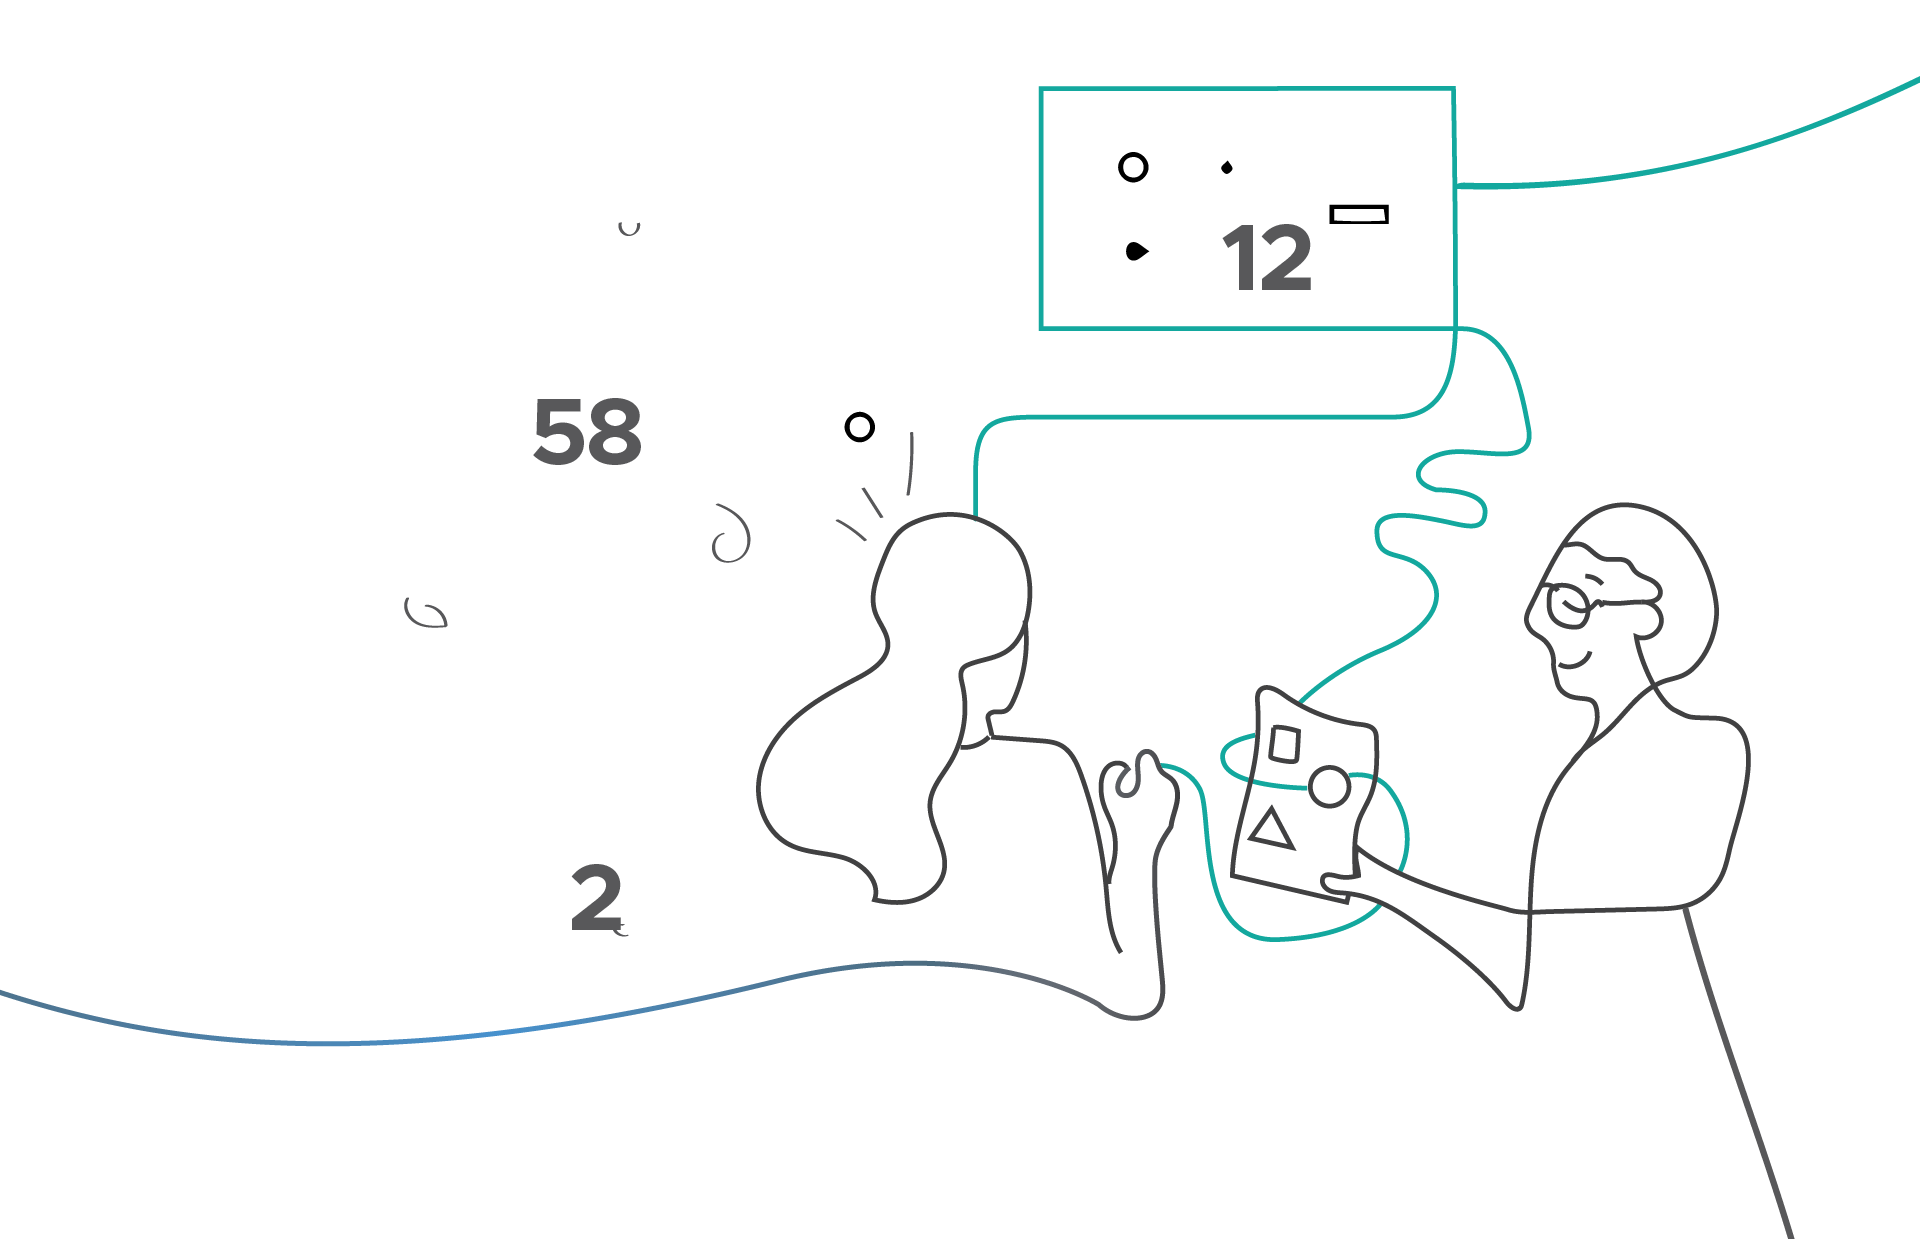
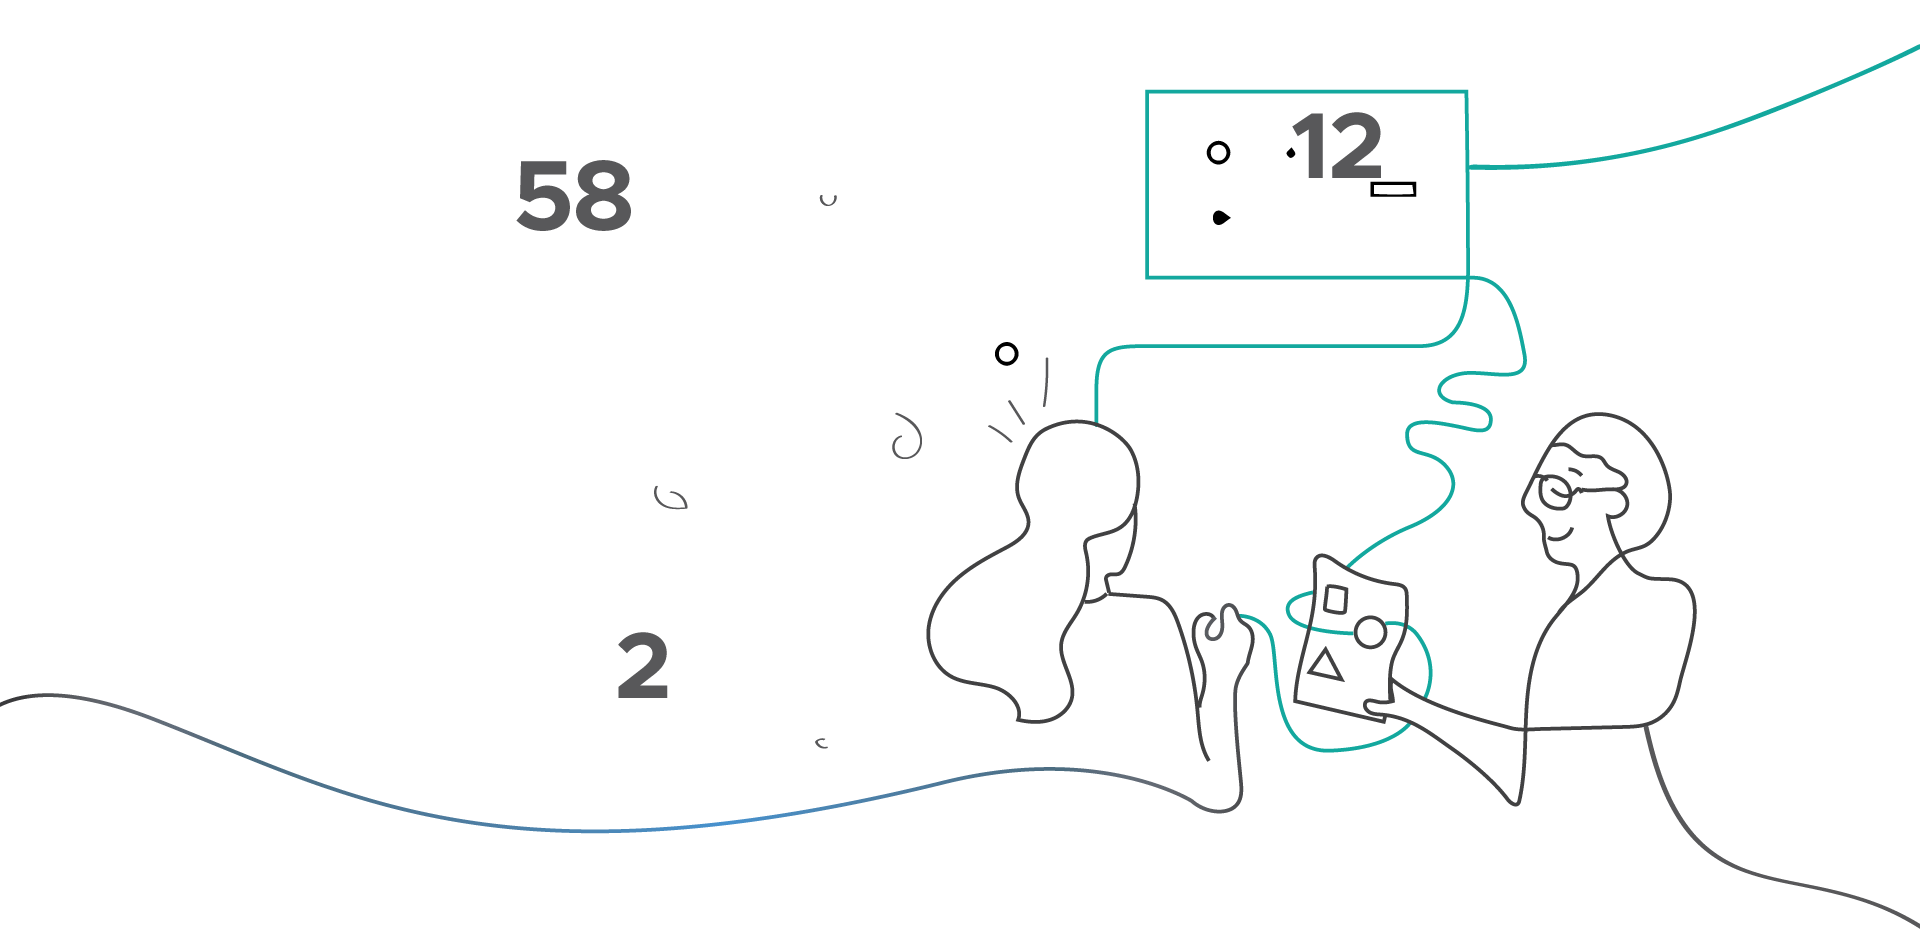
added new animation for segment 2, 3 and 4

diff --git a/js/images.js b/js/images.js
@@ -13,49 +13,97 @@ function showHide(div_section) {
     }
 }
 
+var anime2 = document.getElementById('anime2');
 var anime3 = document.getElementById('anime3');
 var anime4 = document.getElementById('anime4');
 var anime5 = document.getElementById('anime5');
 var anime6 = document.getElementById('anime6');
 var anime7 = document.getElementById('anime7');
 
+function getSrc2o(scrollPos, elem) {
+    if (scrollPos < 1500) return generatePictureCode(1, elem);
+    if (scrollPos < 1525) return generatePictureCode(2, elem);
+    if (scrollPos < 1550) return generatePictureCode(3, elem);
+    if (scrollPos < 1575) return generatePictureCode(4, elem);
+    if (scrollPos < 1600) return generatePictureCode(5, elem);
+    if (scrollPos < 1625) return generatePictureCode(6, elem);
+    if (scrollPos < 1650) return generatePictureCode(7, elem);
+    if (scrollPos < 1675) return generatePictureCode(8, elem);
+    if (scrollPos < 1700) return generatePictureCode(9, elem);
+    if (scrollPos < 1725) return generatePictureCode(10, elem);
+    if (scrollPos < 1750) return generatePictureCode(9, elem);
+    if (scrollPos < 1775) return generatePictureCode(8, elem);
+    if (scrollPos < 1800) return generatePictureCode(7, elem);
+    if (scrollPos < 1825) return generatePictureCode(6, elem);
+    if (scrollPos < 1850) return generatePictureCode(5, elem);
+    if (scrollPos < 1875) return generatePictureCode(4, elem);
+    if (scrollPos < 1900) return generatePictureCode(3, elem);
+    if (scrollPos < 1925) return generatePictureCode(2, elem);
+    if (scrollPos < 1950) return generatePictureCode(1, elem);
+    if (scrollPos > 1950) return generatePictureCode(1, elem);
+}
+
+function getSrc2(scrollPos, elem) {
+    if (scrollPos < 1450) return generatePictureCode(1, elem);
+    if (scrollPos < 1510) return generatePictureCode(2, elem);
+    if (scrollPos < 1570) return generatePictureCode(3, elem);
+    if (scrollPos < 1630) return generatePictureCode(4, elem);
+    if (scrollPos < 1700) return generatePictureCode(5, elem);
+    if (scrollPos < 1760) return generatePictureCode(6, elem);
+    if (scrollPos < 1820) return generatePictureCode(7, elem);
+    if (scrollPos < 1880) return generatePictureCode(8, elem);
+    if (scrollPos < 1940) return generatePictureCode(9, elem);
+    if (scrollPos < 2000) return generatePictureCode(10, elem);
+    if (scrollPos > 2000) return generatePictureCode(10, elem);
+}
+
 function getSrc3(scrollPos, elem) {
-    if (scrollPos < 3500) return generatePictureCode(1, elem);
-    if (scrollPos < 3600) return generatePictureCode(2, elem);
-    if (scrollPos < 3700) return generatePictureCode(3, elem);
-    if (scrollPos < 3800) return generatePictureCode(4, elem);
-    if (scrollPos > 3800) return generatePictureCode(5, elem);
+    if (scrollPos < 2500) return generatePictureCode(1, elem);
+    if (scrollPos < 2600) return generatePictureCode(2, elem);
+    if (scrollPos < 2700) return generatePictureCode(3, elem);
+    if (scrollPos < 2800) return generatePictureCode(4, elem);
+    if (scrollPos < 2900) return generatePictureCode(5, elem);
+    if (scrollPos < 3000) return generatePictureCode(6, elem);
+    if (scrollPos < 3100) return generatePictureCode(7, elem);
+    if (scrollPos > 3100) return generatePictureCode(7, elem);
 }
 
 function getSrc4(scrollPos, elem) {
-    if (scrollPos < 5560) return generatePictureCode(1, elem);
-    if (scrollPos < 5650) return generatePictureCode(2, elem);
-    if (scrollPos < 5740) return generatePictureCode(3, elem);
-    if (scrollPos < 5830) return generatePictureCode(4, elem);
-    if (scrollPos > 5830) return generatePictureCode(5, elem);
+    if (scrollPos < 4000) return generatePictureCode(1, elem);
+    if (scrollPos < 4050) return generatePictureCode(2, elem);
+    if (scrollPos < 4100) return generatePictureCode(3, elem);
+    if (scrollPos < 4150) return generatePictureCode(4, elem);
+    if (scrollPos < 4200) return generatePictureCode(5, elem);
+    if (scrollPos < 4250) return generatePictureCode(6, elem);
+    if (scrollPos < 4300) return generatePictureCode(7, elem);
+    if (scrollPos < 4350) return generatePictureCode(8, elem);
+    if (scrollPos > 4350) return generatePictureCode(8, elem);
 }
 
 function getSrc5(scrollPos, elem) {
-    if (scrollPos < 7000) return generatePictureCode(1, elem);
-    if (scrollPos < 7250) return generatePictureCode(2, elem);
-    if (scrollPos < 7500) return generatePictureCode(3, elem);
-    if (scrollPos > 7500) return generatePictureCode(4, elem);
+    if (scrollPos < 5700) return generatePictureCode(1, elem);
+    if (scrollPos < 5850) return generatePictureCode(2, elem);
+    if (scrollPos < 6000) return generatePictureCode(3, elem);
+    if (scrollPos < 6150) return generatePictureCode(4, elem);
+    if (scrollPos > 6150) return generatePictureCode(4, elem);
 }
 
 function getSrc6(scrollPos, elem) {
-    if (scrollPos < 9000) return generatePictureCode(1, elem);
-    if (scrollPos < 9100) return generatePictureCode(2, elem);
-    if (scrollPos < 9200) return generatePictureCode(3, elem);
-    if (scrollPos > 9200) return generatePictureCode(4, elem);
+    if (scrollPos < 7500) return generatePictureCode(1, elem);
+    if (scrollPos < 7580) return generatePictureCode(2, elem);
+    if (scrollPos < 7660) return generatePictureCode(3, elem);
+    if (scrollPos < 7720) return generatePictureCode(4, elem);
+    if (scrollPos > 7720) return generatePictureCode(4, elem);
 }
 
 function getSrc7(scrollPos, elem) {
-    if (scrollPos < 10800) return generatePictureCode(1, elem);
-    if (scrollPos < 10860) return generatePictureCode(2, elem);
-    if (scrollPos < 10920) return generatePictureCode(3, elem);
-    if (scrollPos < 10980) return generatePictureCode(4, elem);
-    if (scrollPos < 11040) return generatePictureCode(5, elem);
-    if (scrollPos > 11040) return generatePictureCode(6, elem);
+    if (scrollPos < 9250) return generatePictureCode(1, elem);
+    if (scrollPos < 9320) return generatePictureCode(2, elem);
+    if (scrollPos < 9390) return generatePictureCode(3, elem);
+    if (scrollPos < 9460) return generatePictureCode(4, elem);
+    if (scrollPos < 9530) return generatePictureCode(5, elem);
+    if (scrollPos < 9600) return generatePictureCode(6, elem);
+    if (scrollPos > 9600) return generatePictureCode(6, elem);
 }
 
 function generatePictureCode(val, elem) {
@@ -63,11 +111,15 @@ function generatePictureCode(val, elem) {
 }
 
 window.addEventListener('scroll', function() {
-    anime3.innerHTML = getSrc3(window.scrollY, "anime3");
-    anime4.innerHTML = getSrc4(window.scrollY, "anime4");
-    anime5.innerHTML = getSrc5(window.scrollY, "anime5");
-    anime6.innerHTML = getSrc6(window.scrollY, "anime6");
-    anime7.innerHTML = getSrc7(window.scrollY, "anime7");
+    console.log(window.scrollY);
+    setTimeout(function(){  
+        anime2.innerHTML = getSrc2(window.scrollY, "anime2");
+        anime3.innerHTML = getSrc3(window.scrollY, "anime3");
+        anime4.innerHTML = getSrc4(window.scrollY, "anime4");
+        anime5.innerHTML = getSrc5(window.scrollY, "anime5");
+        anime6.innerHTML = getSrc6(window.scrollY, "anime6");
+        anime7.innerHTML = getSrc7(window.scrollY, "anime7");
+    },109);
 });
 
 // window.addEventListener('click', function(e) {

diff --git a/index.html b/index.html
@@ -6,7 +6,7 @@
     <meta http-equiv="X-UA-Compatible" content="IE=edge" />
     <meta name="viewport" content="width=device-width, initial-scale=1" />
     <title>We Believe</title>
-    <link rel="stylesheet" href="css/main.css?3" />
+    <link rel="stylesheet" href="css/main.css?4" />
     <script type="text/javascript">
       (function(i,s,o,g,r,a,m){i['GoogleAnalyticsObject']=r;i[r]=i[r]||function(){
       (i[r].q=i[r].q||[]).push(arguments)},i[r].l=1*new Date();a=s.createElement(o),
@@ -68,7 +68,14 @@
             <source media="(min-width: 1024px)" srcset="img/anime2.png">
             <img src="img/anime2.png" style="width: 100vw;">
           </picture>
-          <picture class="home__figure__clouds js-graphic" style="top: 140.5vw;" data-type="left" data-left-start="0" data-left-end="20">
+          <div id="anime2">
+            <picture>
+              <source media="(min-width: 1450px)" srcset="img/anime2-1.png">
+              <source media="(min-width: 1024px)" srcset="img/anime2-1.png">
+              <img src="img/anime2-1.png" style="width: 100vw;">
+            </picture>
+          </div>
+          <!-- <picture class="home__figure__clouds js-graphic" style="top: 140.5vw;" data-type="left" data-left-start="0" data-left-end="20">
             <source media="(min-width: 1450px)" srcset="img/paricka2.png">
             <source media="(min-width: 1024px)" srcset="img/paricka2.png">
             <img src="img/paricka2.png" style="width: 143px;">
@@ -87,14 +94,14 @@
             <img class="frame frame--1" src="img/zgrada2-1.png">
             <img class="frame frame--2" src="img/zgrada2-2.png">
             <img class="frame frame--3" src="img/zgrada2-3.png">
-          </div>
+          </div> -->
         </figure>
       </div>
       <div class="others">
         <picture>
-          <source media="(min-width: 1450px)" srcset="img/anime3-title.png">
-          <source media="(min-width: 1024px)" srcset="img/anime3-title.png">
-          <img src="img/anime3-title.png" style="width: 100vw;">
+          <source media="(min-width: 1450px)" srcset="img/anime3.png">
+          <source media="(min-width: 1024px)" srcset="img/anime3.png">
+          <img src="img/anime3.png" style="width: 100vw;">
         </picture>
         <div id="anime3">
           <picture>
@@ -106,9 +113,9 @@
       </div>
       <div class="others">
         <picture>
-          <source media="(min-width: 1450px)" srcset="img/anime4-title.png">
-          <source media="(min-width: 1024px)" srcset="img/anime4-title.png">
-          <img src="img/anime4-title.png" style="width: 100vw; margin-left: -3.2px; line-height: 0;">
+          <source media="(min-width: 1450px)" srcset="img/anime4.png">
+          <source media="(min-width: 1024px)" srcset="img/anime4.png">
+          <img src="img/anime4.png" style="width: 100vw;">
         </picture>
         <div id="anime4">
           <picture>
@@ -120,14 +127,14 @@
         <picture>
           <source media="(min-width: 1450px)" srcset="img/anime4-footer.png">
           <source media="(min-width: 1024px)" srcset="img/anime4-footer.png">
-          <img src="img/anime4-footer.png" style="width: 100vw; line-height: 0;">
+          <img src="img/anime4-footer.png" style="width: 100vw; margin-top: -4vw; line-height: 0;">
         </picture>
       </div>
       <div class="others">
         <picture>
           <source media="(min-width: 1450px)" srcset="img/anime5-title.png">
           <source media="(min-width: 1024px)" srcset="img/anime5-title.png">
-          <img src="img/anime5-title.png" style="width: 100vw; margin-left: 8.6px; line-height: 0;">
+          <img src="img/anime5-title.png" style="width: 100vw; margin-top: 0.64vw; margin-left: 0.16vw;">
         </picture>
         <div id="anime5">
           <picture>
@@ -138,7 +145,7 @@
         </div>
       </div>
       <div class="others">
-        <div id="anime6">
+        <div id="anime6" style="margin-top: 25vw;">
           <picture>
             <source media="(min-width: 1450px)" srcset="img/anime6-1.png">
             <source media="(min-width: 1024px)" srcset="img/anime6-1.png">
@@ -146,7 +153,7 @@
           </picture>
         </div>
       </div>
-      <div class="others">
+      <div class="others" style="margin-top: 50vw;">
         <picture>
           <source media="(min-width: 1450px)" srcset="img/anime7-title.png">
           <source media="(min-width: 1024px)" srcset="img/anime7-title.png">
@@ -198,7 +205,7 @@
         </picture>
       </div>
     </section>
-    <script src="js/main.js?3"></script>
-    <script src="js/images.js?3"></script>
+    <script src="js/main.js?4"></script>
+    <script src="js/images.js?4"></script>
   </body>
 </html>

diff --git a/css/main.css b/css/main.css
@@ -810,9 +810,10 @@ a.faded:hover {
 }
 
 .others {
-    height: 1800px;
+    height: 1300px;
     width: 100vw;
     float: left;
+    margin-top: 0.17vw;
 }
 
 #zgrada2 {
